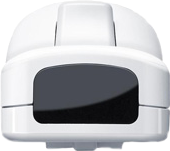
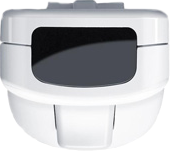
Adding Classic Controller Pro

diff --git a/trunk/WiinUPro/Controls/WiiControl.xaml b/trunk/WiinUPro/Controls/WiiControl.xaml
@@ -106,7 +106,63 @@
         <Viewbox x:Name="viewClassicControllerPro" Width="1100" Visibility="Collapsed">
             <Canvas Width="812" Height="500" Background="Transparent">
                 <Grid Margin="0,0,0,0">
-                    <Image Source="/WiinUPro;component/Images/Controllers/ClassicPro/CCP_temp.jpg" HorizontalAlignment="Left" VerticalAlignment="Top" Margin="0" Width="812" Height="500"/>
+                    <Image Source="/WiinUPro;component/Images/Controllers/ClassicPro/classicProBase.png" HorizontalAlignment="Left" VerticalAlignment="Top" Margin="0" Width="812" Height="500"/>
+                    <Image x:Name="ccpBtnA" Source="/WiinUPro;component/Images/Controllers/ClassicPro/ccpA.png" HorizontalAlignment="Left" VerticalAlignment="Top" Margin="669,193,0,0" Width="53" Opacity="0" MouseLeftButtonDown="Btn_MouseLeftButtonDown" MouseRightButtonUp="Btn_MouseRightButtonUp" Tag="ccpA" />
+                    <Image x:Name="ccpBtnB" Source="/WiinUPro;component/Images/Controllers/ClassicPro/ccpB.png" HorizontalAlignment="Left" VerticalAlignment="Top" Margin="602,241,0,0" Width="53" Opacity="0" MouseLeftButtonDown="Btn_MouseLeftButtonDown" MouseRightButtonUp="Btn_MouseRightButtonUp" Tag="ccpB" />
+                    <Image x:Name="ccpBtnX" Source="/WiinUPro;component/Images/Controllers/ClassicPro/ccpX.png" HorizontalAlignment="Left" VerticalAlignment="Top" Margin="604,147,0,0" Width="53" Opacity="0" MouseLeftButtonDown="Btn_MouseLeftButtonDown" MouseRightButtonUp="Btn_MouseRightButtonUp" Tag="ccpX" />
+                    <Image x:Name="ccpBtnY" Source="/WiinUPro;component/Images/Controllers/ClassicPro/ccpY.png" HorizontalAlignment="Left" VerticalAlignment="Top" Margin="536,194,0,0" Width="53" Opacity="0" MouseLeftButtonDown="Btn_MouseLeftButtonDown" MouseRightButtonUp="Btn_MouseRightButtonUp" Tag="ccpY" />
+                    <Image x:Name="ccpBtnSelect" Source="/WiinUPro;component/Images/Controllers/ClassicPro/ccpMinus.png" HorizontalAlignment="Left" VerticalAlignment="Top" Margin="347,207,0,0" Width="28" Opacity="0" MouseLeftButtonDown="Btn_MouseLeftButtonDown" MouseRightButtonUp="Btn_MouseRightButtonUp" Tag="ccpSELECT" />
+                    <Image x:Name="ccpBtnStart" Source="/WiinUPro;component/Images/Controllers/ClassicPro/ccpPlus.png" HorizontalAlignment="Left" VerticalAlignment="Top" Margin="448,207,0,0" Width="28" Opacity="0" MouseLeftButtonDown="Btn_MouseLeftButtonDown" MouseRightButtonUp="Btn_MouseRightButtonUp" Tag="ccpSTART" />
+                    <Image x:Name="ccpBtnHome" Source="/WiinUPro;component/Images/Controllers/ClassicPro/ccpHome.png" HorizontalAlignment="Left" VerticalAlignment="Top" Margin="397,205,0,0" Width="28" Opacity="0" MouseLeftButtonDown="Btn_MouseLeftButtonDown" MouseRightButtonUp="Btn_MouseRightButtonUp" Tag="ccpHOME" />
+                    <Image x:Name="ccpBtnL" Source="/WiinUPro;component/Images/Controllers/ClassicPro/ccpL.png" HorizontalAlignment="Left" VerticalAlignment="Top" Margin="152,43,0,0" Width="104" Opacity="0" MouseLeftButtonDown="Btn_MouseLeftButtonDown" MouseRightButtonUp="Btn_MouseRightButtonUp" Tag="ccpL" />
+                    <Image x:Name="ccpBtnR" Source="/WiinUPro;component/Images/Controllers/ClassicPro/ccpR.png" HorizontalAlignment="Left" VerticalAlignment="Top" Margin="567,41,0,0" Width="104" Opacity="0" MouseLeftButtonDown="Btn_MouseLeftButtonDown" MouseRightButtonUp="Btn_MouseRightButtonUp" Tag="ccpR" />
+                    <Image x:Name="ccpBtnZL" Source="/WiinUPro;component/Images/Controllers/ClassicPro/ccpZL.png" HorizontalAlignment="Left" VerticalAlignment="Top" Margin="158,11,0,0" Width="102" Opacity="0" MouseLeftButtonDown="Btn_MouseLeftButtonDown" MouseRightButtonUp="Btn_MouseRightButtonUp" Tag="ccpZL" />
+                    <Image x:Name="ccpBtnZR" Source="/WiinUPro;component/Images/Controllers/ClassicPro/ccpZR.png" HorizontalAlignment="Left" VerticalAlignment="Top" Margin="564,10,0,0" Width="102" Opacity="0" MouseLeftButtonDown="Btn_MouseLeftButtonDown" MouseRightButtonUp="Btn_MouseRightButtonUp" Tag="ccpZR" />
+                    <!-- D-Pad -->
+                    <Image x:Name="ccpBtnUp" Source="/WiinUPro;component/Images/Controllers/ClassicPro/ccpUp.png" HorizontalAlignment="Left" VerticalAlignment="Top" Margin="174,163,0,0" Width="37" Opacity="0" MouseLeftButtonDown="Btn_MouseLeftButtonDown" MouseRightButtonUp="Btn_MouseRightButtonUp" Tag="ccpUP" />
+                    <Image x:Name="ccpBtnRight" Source="/WiinUPro;component/Images/Controllers/ClassicPro/ccpRight.png" HorizontalAlignment="Left" VerticalAlignment="Top" Margin="210,202,0,0" Width="42" Opacity="0" MouseLeftButtonDown="Btn_MouseLeftButtonDown" MouseRightButtonUp="Btn_MouseRightButtonUp" Tag="ccpRIGHT" />
+                    <Image x:Name="ccpBtnDown" Source="/WiinUPro;component/Images/Controllers/ClassicPro/ccpDown.png" HorizontalAlignment="Left" VerticalAlignment="Top" Margin="177,231,0,0" Width="37" Opacity="0" MouseLeftButtonDown="Btn_MouseLeftButtonDown" MouseRightButtonUp="Btn_MouseRightButtonUp" Tag="ccpDOWN" />
+                    <Image x:Name="ccpBtnLeft" Source="/WiinUPro;component/Images/Controllers/ClassicPro/ccpLeft.png" HorizontalAlignment="Left" VerticalAlignment="Top" Margin="135,202,0,0" Width="42" Opacity="0" MouseLeftButtonDown="Btn_MouseLeftButtonDown" MouseRightButtonUp="Btn_MouseRightButtonUp" Tag="ccpLEFT" />
+                    <Image x:Name="ccpPadCenter" Source="/WiinUPro;component/Images/Controllers/ClassicPro/ccpCenterPad.png" HorizontalAlignment="Left" VerticalAlignment="Top" Margin="176,204,0,0" Width="37" Opacity="0" />
+                    <!-- Joysticks -->
+                    <Image x:Name="ccpLeftStick" Source="/WiinUPro;component/Images/Controllers/ClassicPro/ccpJoy.png" HorizontalAlignment="Left" VerticalAlignment="Top" Margin="255,279,0,0" Width="82" Opacity="1" MouseLeftButtonUp="OpenContextMenu" >
+                        <Image.ContextMenu>
+                            <ContextMenu>
+                                <MenuItem Header="Up" Tag="ccpLUP" Click="OpenInput"/>
+                                <MenuItem Header="Left" Tag="ccpLLEFT" Click="OpenInput"/>
+                                <MenuItem Header="Right" Tag="ccpLRIGHT" Click="OpenInput"/>
+                                <MenuItem Header="Down" Tag="ccpLDOWN" Click="OpenInput"/>
+                                <Separator/>
+                                <!-- TODO: LJoy Context Menu
+                                <MenuItem Header="Quick Assign">
+                                    <MenuItem Header="Mouse" Tag="proL" Click="QuickAssign_Click"/>
+                                    <MenuItem Header="WASD" Tag="proL" Click="QuickAssign_Click"/>
+                                    <MenuItem Header="Arrows" Tag="proL" Click="QuickAssign_Click"/>
+                                </MenuItem>
+                                <MenuItem Header="Calibrate" Tag="JoyL" Click="Calibrate_Click"/>
+                                -->
+                            </ContextMenu>
+                        </Image.ContextMenu>
+                    </Image>
+                    <Image x:Name="ccpRightStick" Source="/WiinUPro;component/Images/Controllers/ClassicPro/ccpJoy.png" HorizontalAlignment="Left" VerticalAlignment="Top" Margin="485,279,0,0" Width="82" Opacity="1" MouseLeftButtonUp="OpenContextMenu" >
+                        <Image.ContextMenu>
+                            <ContextMenu>
+                                <MenuItem Header="Up" Tag="ccpRUP" Click="OpenInput"/>
+                                <MenuItem Header="Left" Tag="ccpRLEFT" Click="OpenInput"/>
+                                <MenuItem Header="Right" Tag="ccpRRIGHT" Click="OpenInput"/>
+                                <MenuItem Header="Down" Tag="ccpRDOWN" Click="OpenInput"/>
+                                <Separator/>
+                                <!-- TODO: LJoy Context Menu
+                                <MenuItem Header="Quick Assign">
+                                    <MenuItem Header="Mouse" Tag="proL" Click="QuickAssign_Click"/>
+                                    <MenuItem Header="WASD" Tag="proL" Click="QuickAssign_Click"/>
+                                    <MenuItem Header="Arrows" Tag="proL" Click="QuickAssign_Click"/>
+                                </MenuItem>
+                                <MenuItem Header="Calibrate" Tag="JoyL" Click="Calibrate_Click"/>
+                                -->
+                            </ContextMenu>
+                        </Image.ContextMenu>
+                    </Image>
                 </Grid>
             </Canvas>
         </Viewbox>

diff --git a/trunk/WiinUPro/Controls/WiiControl.xaml.cs b/trunk/WiinUPro/Controls/WiiControl.xaml.cs
@@ -65,23 +65,23 @@ namespace WiinUPro
                 UpdateWiimoteVisual(cc.wiimote);
 
                 // TODO: Make L & R Triggers work
-                ccBtnA.Opacity = cc.A ? 1 : 0;
-                ccBtnB.Opacity = cc.B ? 1 : 0;
-                ccBtnX.Opacity = cc.X ? 1 : 0;
-                ccBtnY.Opacity = cc.Y ? 1 : 0;
-                ccBtnUp.Opacity = cc.Up ? 1 : 0;
-                ccBtnDown.Opacity = cc.Down ? 1 : 0;
-                ccBtnRight.Opacity = cc.Right ? 1 : 0;
-                ccBtnLeft.Opacity = cc.Left ? 1 : 0;
+                ccBtnA.Opacity      = cc.A ? 1 : 0;
+                ccBtnB.Opacity      = cc.B ? 1 : 0;
+                ccBtnX.Opacity      = cc.X ? 1 : 0;
+                ccBtnY.Opacity      = cc.Y ? 1 : 0;
+                ccBtnUp.Opacity     = cc.Up ? 1 : 0;
+                ccBtnDown.Opacity   = cc.Down ? 1 : 0;
+                ccBtnRight.Opacity  = cc.Right ? 1 : 0;
+                ccBtnLeft.Opacity   = cc.Left ? 1 : 0;
                 ccPadCenter.Opacity = cc.Up || cc.Down || cc.Left || cc.Right ? 1 : 0;
-                ccBtnHome.Opacity = cc.Home ? 1 : 0;
+                ccBtnHome.Opacity   = cc.Home ? 1 : 0;
                 ccBtnSelect.Opacity = cc.Select ? 1 : 0;
-                ccBtnStart.Opacity = cc.Start ? 1 : 0;
-                ccBtnZL.Opacity = cc.ZL ? 1 : 0;
-                ccBtnZR.Opacity = cc.ZR ? 1 : 0;
-                ccL.Opacity = cc.L.value > 0 ? 1 : 0;
-                ccR.Opacity = cc.R.value > 0 ? 1 : 0;
-                ccLeftStick.Margin = new Thickness(208 + 30 * cc.LJoy.X, 210 - 30 * cc.LJoy.Y, 0, 0);
+                ccBtnStart.Opacity  = cc.Start ? 1 : 0;
+                ccBtnZL.Opacity     = cc.ZL ? 1 : 0;
+                ccBtnZR.Opacity     = cc.ZR ? 1 : 0;
+                ccL.Opacity         = cc.L.value > 0 ? 1 : 0;
+                ccR.Opacity         = cc.R.value > 0 ? 1 : 0;
+                ccLeftStick.Margin  = new Thickness(208 + 30 * cc.LJoy.X, 210 - 30 * cc.LJoy.Y, 0, 0);
                 ccRightStick.Margin = new Thickness(364 + 30 * cc.RJoy.X, 210 - 30 * cc.RJoy.Y, 0, 0);
             }
             else if (state is ClassicControllerPro)
@@ -92,6 +92,25 @@ namespace WiinUPro
 
                 var ccp = (ClassicControllerPro)state;
                 UpdateWiimoteVisual(ccp.wiimote);
+
+                ccpBtnA.Opacity      = ccp.A ? 1 : 0;
+                ccpBtnB.Opacity      = ccp.B ? 1 : 0;
+                ccpBtnX.Opacity      = ccp.X ? 1 : 0;
+                ccpBtnY.Opacity      = ccp.Y ? 1 : 0;
+                ccpBtnUp.Opacity     = ccp.Up ? 1 : 0;
+                ccpBtnDown.Opacity   = ccp.Down ? 1 : 0;
+                ccpBtnRight.Opacity  = ccp.Right ? 1 : 0;
+                ccpBtnLeft.Opacity   = ccp.Left ? 1 : 0;
+                ccpPadCenter.Opacity = ccp.Up || ccp.Down || ccp.Left || ccp.Right ? 1 : 0;
+                ccpBtnHome.Opacity   = ccp.Home ? 1 : 0;
+                ccpBtnSelect.Opacity = ccp.Select ? 1 : 0;
+                ccpBtnStart.Opacity  = ccp.Start ? 1 : 0;
+                ccpBtnZL.Opacity     = ccp.ZL ? 1 : 0;
+                ccpBtnZR.Opacity     = ccp.ZR ? 1 : 0;
+                ccpBtnL.Opacity      = ccp.L ? 1 : 0;
+                ccpBtnR.Opacity      = ccp.R ? 1 : 0;
+                ccpLeftStick.Margin  = new Thickness(255 + 30 * ccp.LJoy.X, 279 - 30 * ccp.LJoy.Y, 0, 0);
+                ccpRightStick.Margin = new Thickness(485 + 30 * ccp.RJoy.X, 279 - 30 * ccp.RJoy.Y, 0, 0);
             }
         }
 
